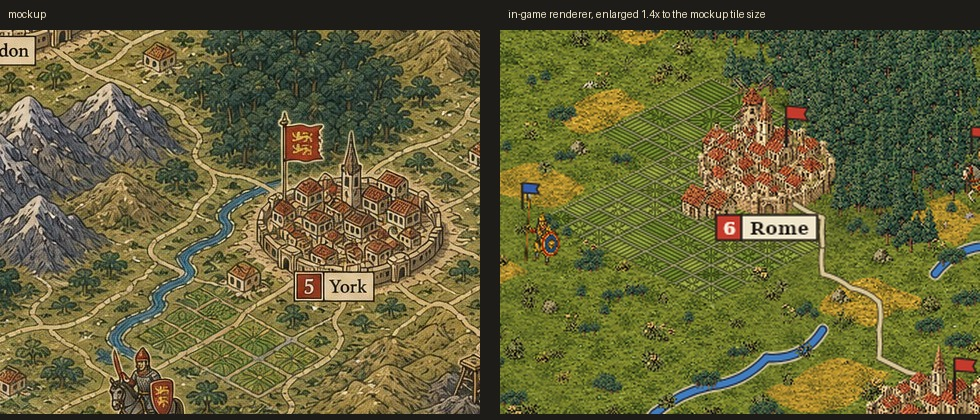
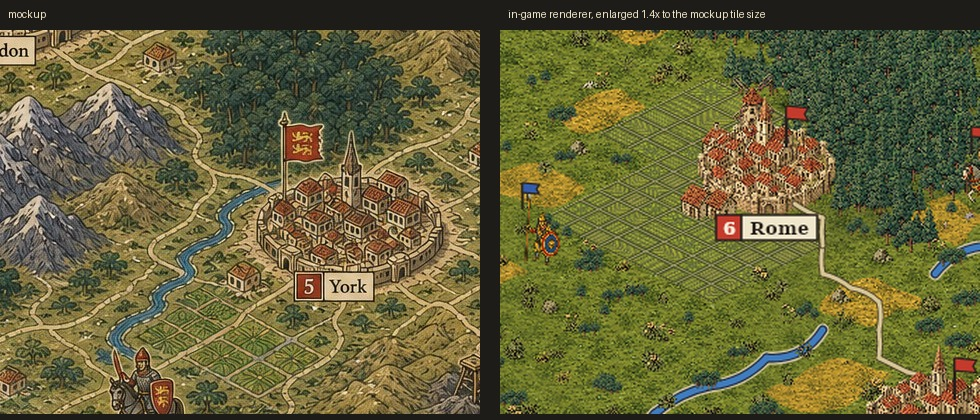
Iso view: painted crop plots on the fields
A generated sheet of 16 crop plots seen from above, in the mockup's
style (radiating leaves on a cross, chevrons, furrow rows), is cut by
iso_assets.py and mapped onto each field plot in its own coordinates,
turned one of four ways, between the hedge lines and lanes.

Claude-Session: https://claude.ai/code/session_01VGBb6mKQ3kspS5r6m29MiP

Changed region(s): [[0.551, 0.1857, 0.8265, 0.7119]]

diff --git a/src/Graphics/IsoView.cs b/src/Graphics/IsoView.cs
@@ -37,6 +37,10 @@ namespace OpenCivOne.Graphics
 
 		private readonly int width, height;
 		private readonly uint[] grass, sand, snow, sea, shallow;
+
+		// the painted crop plots (seen from above, FieldPlot pixels square), mapped onto each plot of a field
+		private const int FieldPlot = 32;
+		private readonly List<uint[]> fieldPlots = new List<uint[]>();
 		private readonly Dictionary<string, List<SKBitmap>> sets = new Dictionary<string, List<SKBitmap>>();
 		private readonly Dictionary<string, SKBitmap> objects = new Dictionary<string, SKBitmap>();
 		private uint[] pixels;
@@ -131,6 +135,34 @@ namespace OpenCivOne.Graphics
 				ReadTexture(Path.Combine(painted, "snow.png"), new[] { 236f, 234f, 224f }, 1f),
 				ReadTexture(Path.Combine(painted, "ocean.png"), new[] { 54f, 102f, 122f }, 0.12f),
 				ReadTexture(Path.Combine(painted, "shallow.png"), new[] { 84f, 142f, 150f }, 0.35f));
+
+			string plotFolder = Path.Combine(iso, "fieldplots");
+
+			if (Directory.Exists(plotFolder))
+			{
+				string[] files = Directory.GetFiles(plotFolder, "*.png");
+				Array.Sort(files, (a, b) => int.Parse(Path.GetFileNameWithoutExtension(a)).CompareTo(int.Parse(Path.GetFileNameWithoutExtension(b))));
+
+				foreach (string file in files)
+				{
+					using SKBitmap? b = SKBitmap.Decode(file);
+
+					if (b == null)
+						continue;
+
+					using SKBitmap sized = b.Resize(new SKImageInfo(FieldPlot, FieldPlot), new SKSamplingOptions(SKCubicResampler.Mitchell));
+					uint[] px = new uint[FieldPlot * FieldPlot];
+
+					for (int i = 0; i < px.Length; i++)
+					{
+						SKColor c = sized.GetPixel(i % FieldPlot, i / FieldPlot);
+						// lifted to the mockup's sunlit yellow-greens: the painted sheet comes out darker, with more soil
+						px[i] = Pack(c.Red * 1.36f, c.Green * 1.42f, c.Blue * 1.4f);
+					}
+
+					view.fieldPlots.Add(px);
+				}
+			}
 
 			// every set at one scale, so a single tree stays smaller than a clump: its widest sprite gets the width given
 			(string Set, float Width)[] scales = {
@@ -602,6 +634,23 @@ namespace OpenCivOne.Graphics
 							float detail = ((r + g + b) / 3 / 120f) - 1;
 							float shade = (1 + (MathF.Max(0, 0.35f - vein) * 0.6f) - (MathF.Min(1, vein) * 0.52f)) * (1.1f - (rad * 0.14f));
 							float fr = (pr * shade) + (detail * 18), fg = (pg * shade) + (detail * 18), fb = (pb * shade) + (detail * 10);
+
+							// with the theme's painted crop plots, each plot shows one of them, turned one of four ways
+							if (this.fieldPlots.Count > 0)
+							{
+								uint[] tex = this.fieldPlots[(int)(Hash(plotX, plotY, 54) * this.fieldPlots.Count) % this.fieldPlots.Count];
+								int turn = (int)(Hash(plotX, plotY, 55) * 4) & 3;
+								float tu = (su + 1) / 2, tv = (sv + 1) / 2;
+								(tu, tv) = turn switch { 1 => (1 - tv, tu), 2 => (1 - tu, 1 - tv), 3 => (tv, 1 - tu), _ => (tu, tv) };
+								float qx = Math.Clamp((tu * FieldPlot) - 0.5f, 0, FieldPlot - 1.001f), qy = Math.Clamp((tv * FieldPlot) - 0.5f, 0, FieldPlot - 1.001f);
+								int x0 = (int)qx, y0 = (int)qy;
+								float ax = qx - x0, ay = qy - y0;
+								uint c00 = tex[(y0 * FieldPlot) + x0], c10 = tex[(y0 * FieldPlot) + x0 + 1], c01 = tex[((y0 + 1) * FieldPlot) + x0], c11 = tex[((y0 + 1) * FieldPlot) + x0 + 1];
+								float Mix(int sh) => ((((c00 >> sh) & 0xff) * (1 - ax)) + (((c10 >> sh) & 0xff) * ax)) * (1 - ay) + ((((c01 >> sh) & 0xff) * (1 - ax)) + (((c11 >> sh) & 0xff) * ax)) * ay;
+								fr = Mix(16);
+								fg = Mix(8);
+								fb = Mix(0);
+							}
 
 							// a thin grey-cream lane, edged by a dark hedge line on the plot's side, both antialiased so they do
 							// not break into steps

diff --git a/tools/hdart/iso_assets.py b/tools/hdart/iso_assets.py
@@ -1,5 +1,5 @@
 """Builds a theme's isometric map art (hd/iso) from its generated isometric sheets (raw-iso/iso_*.png): every sheet cut
-into separate sprites, one folder per set, and the inked grass and sand grounds made into seamless 400-pixel textures
+into separate sprites, one folder per set, the painted crop plots cut from their grid, and the inked grass and sand grounds made into seamless 400-pixel textures
 (400 divides the isometric width of the world, so the ground repeats without a seam where the world wraps).
 
 Usage: python3 iso_assets.py THEME_DIR
@@ -19,6 +19,7 @@ import style
 SETS = ['trees', 'peaks', 'hills2', 'jungle', 'town', 'tufts', 'tundra', 'reeds', 'ice', 'dunes', 'plots', 'hamlet']
 GROUNDS = {'grass': ('iso_tex_grass', (1.0, 1.0, 1.0)), 'sand': ('iso_tex_sand', (1.0, 0.94, 0.80))}
 TEXTURE = 400
+PLOT = 32  # the painted crop plots (iso_fieldplots, a 4 x 4 grid seen from above), mapped onto each field plot
 
 
 def lighten(img):
@@ -55,6 +56,17 @@ def main(theme):
         tile = np.asarray(Image.fromarray(style.seamless(img, img.width)).convert('RGB').resize((TEXTURE, TEXTURE), Image.LANCZOS), dtype=np.float64)
         Image.fromarray(np.clip(tile * np.array(tint), 0, 255).astype(np.uint8)).save(os.path.join(out, 'ground', name + '.png'))
     print('grounds', len(GROUNDS))
+    plots = os.path.join(raw, 'iso_fieldplots.png')
+    if os.path.exists(plots):
+        os.makedirs(os.path.join(out, 'fieldplots'), exist_ok=True)
+        img = Image.open(plots).convert('RGB')
+        cell = img.width / 4
+        inset = cell * 0.05
+        for i in range(16):
+            x, y = (i % 4) * cell, (i // 4) * cell
+            img.crop((round(x + inset), round(y + inset), round(x + cell - inset), round(y + cell - inset))).resize(
+                (PLOT, PLOT), Image.LANCZOS).save(os.path.join(out, 'fieldplots', f'{i}.png'))
+        print('fieldplots', 16)
 
 
 if __name__ == '__main__':
